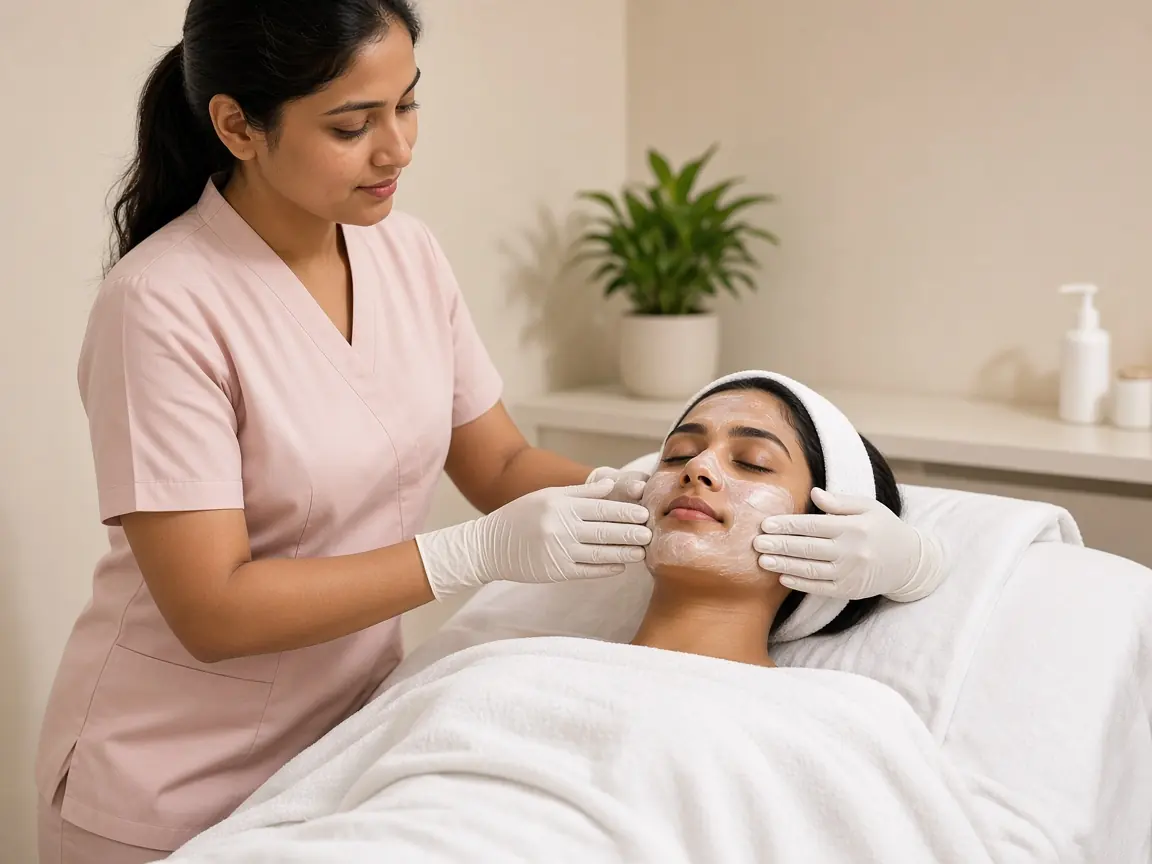
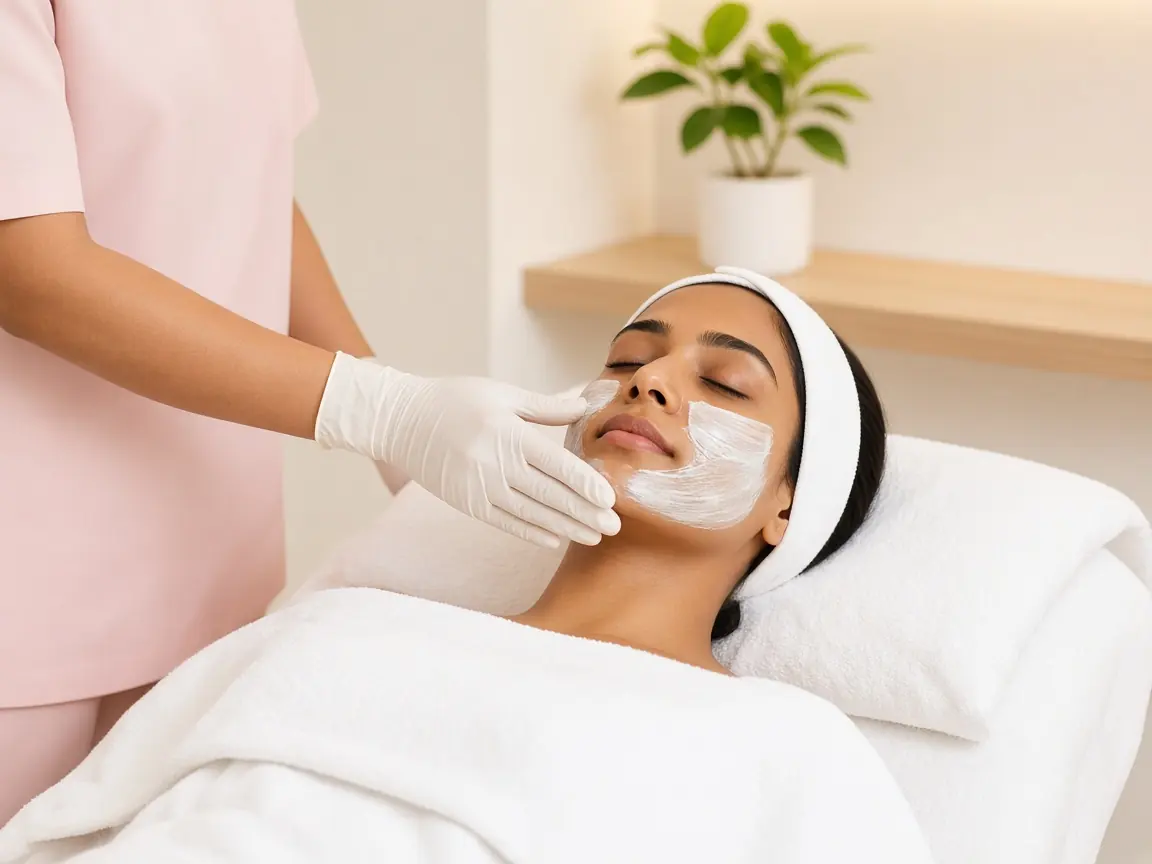
Fix narrow-screen overflow and replace the service photos that had extra hands.

diff --git a/css/site.css b/css/site.css
@@ -1,1 +1,1 @@
-*,:after,:before{--tw-border-spacing-x:0;--tw-border-spacing-y:0;--tw-translate-x:0;--tw-translate-y:0;--tw-rotate:0;--tw-skew-x:0;--tw-skew-y:0;--tw-scale-x:1;--tw-scale-y:1;--tw-pan-x: ;--tw-pan-y: ;--tw-pinch-zoom: ;--tw-scroll-snap-strictness:proximity;--tw-gradient-from-position: ;--tw-gradient-via-position: ;--tw-gradient-to-position: ;--tw-ordinal: ;--tw-slashed-zero: ;--tw-numeric-figure: ;--tw-numeric-spacing: ;--tw-numeric-fraction: ;--tw-ring-inset: ;--tw-ring-offset-width:0px;--tw-ring-offset-color:#fff;--tw-ring-color:rgba(59,130,246,.5);--tw-ring-offset-shadow:0 0 #0000;--tw-ring-shadow:0 0 #0000;--tw-shadow:0 0 #0000;--tw-shadow-colored:0 0 #0000;--tw-blur: ;--tw-brightness: ;--tw-contrast: ;--tw-grayscale: ;--tw-hue-rotate: ;--tw-invert: ;--tw-saturate: ;--tw-sepia: ;--tw-drop-shadow: ;--tw-backdrop-blur: ;--tw-backdrop-brightness: ;--tw-backdrop-contrast: ;--tw-backdrop-grayscale: ;--tw-backdrop-hue-rotate: ;--tw-backdrop-invert: ;--tw-backdrop-opacity: ;--tw-backdrop-saturate: ;--tw-backdrop-sepia: ;--tw-contain-size: ;--tw-contain-layout: ;--tw-contain-paint: ;--tw-contain-style: }::backdrop{--tw-border-spacing-x:0;--tw-border-spacing-y:0;--tw-translate-x:0;--tw-translate-y:0;--tw-rotate:0;--tw-skew-x:0;--tw-skew-y:0;--tw-scale-x:1;--tw-scale-y:1;--tw-pan-x: ;--tw-pan-y: ;--tw-pinch-zoom: ;--tw-scroll-snap-strictness:proximity;--tw-gradient-from-position: ;--tw-gradient-via-position: ;--tw-gradient-to-position: ;--tw-ordinal: ;--tw-slashed-zero: ;--tw-numeric-figure: ;--tw-numeric-spacing: ;--tw-numeric-fraction: ;--tw-ring-inset: ;--tw-ring-offset-width:0px;--tw-ring-offset-color:#fff;--tw-ring-color:rgba(59,130,246,.5);--tw-ring-offset-shadow:0 0 #0000;--tw-ring-shadow:0 0 #0000;--tw-shadow:0 0 #0000;--tw-shadow-colored:0 0 #0000;--tw-blur: ;--tw-brightness: ;--tw-contrast: ;--tw-grayscale: ;--tw-hue-rotate: ;--tw-invert: ;--tw-saturate: ;--tw-sepia: ;--tw-drop-shadow: ;--tw-backdrop-blur: ;--tw-backdrop-brightness: ;--tw-backdrop-contrast: ;--tw-backdrop-grayscale: ;--tw-backdrop-hue-rotate: ;--tw-backdrop-invert: ;--tw-backdrop-opacity: ;--tw-backdrop-saturate: ;--tw-backdrop-sepia: ;--tw-contain-size: ;--tw-contain-layout: ;--tw-contain-paint: ;--tw-contain-style: }/*! tailwindcss v3.4.17 | MIT License | https://tailwindcss.com*/*,:after,:before{box-sizing:border-box;border:0 solid #e5e7eb}:after,:before{--tw-content:""}:host,html{line-height:1.5;-webkit-text-size-adjust:100%;-moz-tab-size:4;-o-tab-size:4;tab-size:4;font-family:ui-sans-serif,system-ui,sans-serif,Apple Color Emoji,Segoe UI Emoji,Segoe UI Symbol,Noto Color Emoji;font-feature-settings:normal;font-variation-settings:normal;-webkit-tap-highlight-color:transparent}body{margin:0;line-height:inherit}hr{height:0;color:inherit;border-top-width:1px}abbr:where([title]){-webkit-text-decoration:underline dotted;text-decoration:underline dotted}h1,h2,h3,h4,h5,h6{font-size:inherit;font-weight:inherit}a{color:inherit;text-decoration:inherit}b,strong{font-weight:bolder}code,kbd,pre,samp{font-family:ui-monospace,SFMono-Regular,Menlo,Monaco,Consolas,Liberation Mono,Courier New,monospace;font-feature-settings:normal;font-variation-settings:normal;font-size:1em}small{font-size:80%}sub,sup{font-size:75%;line-height:0;position:relative;vertical-align:baseline}sub{bottom:-.25em}sup{top:-.5em}table{text-indent:0;border-color:inherit;border-collapse:collapse}button,input,optgroup,select,textarea{font-family:inherit;font-feature-settings:inherit;font-variation-settings:inherit;font-size:100%;font-weight:inherit;line-height:inherit;letter-spacing:inherit;color:inherit;margin:0;padding:0}button,select{text-transform:none}button,input:where([type=button]),input:where([type=reset]),input:where([type=submit]){-webkit-appearance:button;background-color:transparent;background-image:none}:-moz-focusring{outline:auto}:-moz-ui-invalid{box-shadow:none}progress{vertical-align:baseline}::-webkit-inner-spin-button,::-webkit-outer-spin-button{height:auto}[type=search]{-webkit-appearance:textfield;outline-offset:-2px}::-webkit-search-decoration{-webkit-appearance:none}::-webkit-file-upload-button{-webkit-appearance:button;font:inherit}summary{display:list-item}blockquote,dd,dl,figure,h1,h2,h3,h4,h5,h6,hr,p,pre{margin:0}fieldset{margin:0}fieldset,legend{padding:0}menu,ol,ul{list-style:none;margin:0;padding:0}dialog{padding:0}textarea{resize:vertical}input::-moz-placeholder,textarea::-moz-placeholder{opacity:1;color:#9ca3af}input::placeholder,textarea::placeholder{opacity:1;color:#9ca3af}[role=button],button{cursor:pointer}:disabled{cursor:default}audio,canvas,embed,iframe,img,object,svg,video{display:block;vertical-align:middle}img,video{max-width:100%;height:auto}[hidden]:where(:not([hidden=until-found])){display:none}.absolute{position:absolute}.relative{position:relative}.sticky{position:sticky}.right-0{right:0}.top-0{top:0}.top-full{top:100%}.z-50{z-index:50}.mx-auto{margin-left:auto;margin-right:auto}.mb-10{margin-bottom:2.5rem}.mb-12{margin-bottom:3rem}.mb-16{margin-bottom:4rem}.mb-2{margin-bottom:.5rem}.mb-3{margin-bottom:.75rem}.mb-4{margin-bottom:1rem}.mb-6{margin-bottom:1.5rem}.mb-8{margin-bottom:2rem}.ml-2{margin-left:.5rem}.mr-2{margin-right:.5rem}.mt-10{margin-top:2.5rem}.mt-12{margin-top:3rem}.mt-2{margin-top:.5rem}.mt-3{margin-top:.75rem}.mt-4{margin-top:1rem}.mt-6{margin-top:1.5rem}.mt-8{margin-top:2rem}.mt-auto{margin-top:auto}.block{display:block}.inline-block{display:inline-block}.flex{display:flex}.inline-flex{display:inline-flex}.grid{display:grid}.hidden{display:none}.h-10{height:2.5rem}.h-12{height:3rem}.h-16{height:4rem}.h-4{height:1rem}.h-48{height:12rem}.h-5{height:1.25rem}.h-6{height:1.5rem}.h-8{height:2rem}.h-80{height:20rem}.h-\[450px\]{height:450px}.h-full{height:100%}.min-h-screen{min-height:100vh}.w-10{width:2.5rem}.w-12{width:3rem}.w-16{width:4rem}.w-4{width:1rem}.w-5{width:1.25rem}.w-6{width:1.5rem}.w-64{width:16rem}.w-8{width:2rem}.w-\[85\%\]{width:85%}.w-full{width:100%}.min-w-0{min-width:0}.max-w-3xl{max-width:48rem}.max-w-5xl{max-width:64rem}.max-w-7xl{max-width:80rem}.max-w-md{max-width:28rem}.max-w-xl{max-width:36rem}.shrink-0{flex-shrink:0}.flex-grow{flex-grow:1}.snap-x{scroll-snap-type:x var(--tw-scroll-snap-strictness)}.snap-mandatory{--tw-scroll-snap-strictness:mandatory}.snap-start{scroll-snap-align:start}.grid-cols-1{grid-template-columns:repeat(1,minmax(0,1fr))}.grid-cols-2{grid-template-columns:repeat(2,minmax(0,1fr))}.grid-cols-3{grid-template-columns:repeat(3,minmax(0,1fr))}.flex-col{flex-direction:column}.flex-wrap{flex-wrap:wrap}.items-start{align-items:flex-start}.items-center{align-items:center}.justify-center{justify-content:center}.justify-between{justify-content:space-between}.gap-10{gap:2.5rem}.gap-12{gap:3rem}.gap-2{gap:.5rem}.gap-3{gap:.75rem}.gap-4{gap:1rem}.gap-6{gap:1.5rem}.gap-8{gap:2rem}.space-y-1>:not([hidden])~:not([hidden]){--tw-space-y-reverse:0;margin-top:calc(.25rem*(1 - var(--tw-space-y-reverse)));margin-bottom:calc(.25rem*var(--tw-space-y-reverse))}.space-y-2>:not([hidden])~:not([hidden]){--tw-space-y-reverse:0;margin-top:calc(.5rem*(1 - var(--tw-space-y-reverse)));margin-bottom:calc(.5rem*var(--tw-space-y-reverse))}.space-y-3>:not([hidden])~:not([hidden]){--tw-space-y-reverse:0;margin-top:calc(.75rem*(1 - var(--tw-space-y-reverse)));margin-bottom:calc(.75rem*var(--tw-space-y-reverse))}.space-y-4>:not([hidden])~:not([hidden]){--tw-space-y-reverse:0;margin-top:calc(1rem*(1 - var(--tw-space-y-reverse)));margin-bottom:calc(1rem*var(--tw-space-y-reverse))}.space-y-6>:not([hidden])~:not([hidden]){--tw-space-y-reverse:0;margin-top:calc(1.5rem*(1 - var(--tw-space-y-reverse)));margin-bottom:calc(1.5rem*var(--tw-space-y-reverse))}.space-y-8>:not([hidden])~:not([hidden]){--tw-space-y-reverse:0;margin-top:calc(2rem*(1 - var(--tw-space-y-reverse)));margin-bottom:calc(2rem*var(--tw-space-y-reverse))}.overflow-hidden{overflow:hidden}.overflow-x-auto{overflow-x:auto}.whitespace-nowrap{white-space:nowrap}.rounded-2xl{border-radius:1rem}.rounded-full{border-radius:9999px}.rounded-lg{border-radius:.5rem}.rounded-md{border-radius:.375rem}.rounded-xl{border-radius:.75rem}.border{border-width:1px}.border-2{border-width:2px}.border-b-2{border-bottom-width:2px}.border-t{border-top-width:1px}.border-black\/20{border-color:rgba(0,0,0,.2)}.border-blue-100{--tw-border-opacity:1;border-color:rgb(219 234 254/var(--tw-border-opacity,1))}.border-blue-600{--tw-border-opacity:1;border-color:rgb(37 99 235/var(--tw-border-opacity,1))}.border-gray-200{--tw-border-opacity:1;border-color:rgb(229 231 235/var(--tw-border-opacity,1))}.border-gray-800{--tw-border-opacity:1;border-color:rgb(31 41 55/var(--tw-border-opacity,1))}.border-green-100{--tw-border-opacity:1;border-color:rgb(220 252 231/var(--tw-border-opacity,1))}.border-green-600{--tw-border-opacity:1;border-color:rgb(22 163 74/var(--tw-border-opacity,1))}.border-pink-100{--tw-border-opacity:1;border-color:rgb(252 231 243/var(--tw-border-opacity,1))}.border-pink-600{--tw-border-opacity:1;border-color:rgb(219 39 119/var(--tw-border-opacity,1))}.bg-blue-50{--tw-bg-opacity:1;background-color:rgb(239 246 255/var(--tw-bg-opacity,1))}.bg-blue-600{--tw-bg-opacity:1;background-color:rgb(37 99 235/var(--tw-bg-opacity,1))}.bg-gray-100{--tw-bg-opacity:1;background-color:rgb(243 244 246/var(--tw-bg-opacity,1))}.bg-gray-50{--tw-bg-opacity:1;background-color:rgb(249 250 251/var(--tw-bg-opacity,1))}.bg-gray-800{--tw-bg-opacity:1;background-color:rgb(31 41 55/var(--tw-bg-opacity,1))}.bg-gray-900{--tw-bg-opacity:1;background-color:rgb(17 24 39/var(--tw-bg-opacity,1))}.bg-green-100{--tw-bg-opacity:1;background-color:rgb(220 252 231/var(--tw-bg-opacity,1))}.bg-green-50{--tw-bg-opacity:1;background-color:rgb(240 253 244/var(--tw-bg-opacity,1))}.bg-green-600{--tw-bg-opacity:1;background-color:rgb(22 163 74/var(--tw-bg-opacity,1))}.bg-green-700{--tw-bg-opacity:1;background-color:rgb(21 128 61/var(--tw-bg-opacity,1))}.bg-pink-50{--tw-bg-opacity:1;background-color:rgb(253 242 248/var(--tw-bg-opacity,1))}.bg-pink-600{--tw-bg-opacity:1;background-color:rgb(219 39 119/var(--tw-bg-opacity,1))}.bg-white{--tw-bg-opacity:1;background-color:rgb(255 255 255/var(--tw-bg-opacity,1))}.bg-gradient-to-br{background-image:linear-gradient(to bottom right,var(--tw-gradient-stops))}.from-blue-50{--tw-gradient-from:#eff6ff var(--tw-gradient-from-position);--tw-gradient-to:rgba(239,246,255,0) var(--tw-gradient-to-position);--tw-gradient-stops:var(--tw-gradient-from),var(--tw-gradient-to)}.from-green-50{--tw-gradient-from:#f0fdf4 var(--tw-gradient-from-position);--tw-gradient-to:rgba(240,253,244,0) var(--tw-gradient-to-position);--tw-gradient-stops:var(--tw-gradient-from),var(--tw-gradient-to)}.from-pink-50{--tw-gradient-from:#fdf2f8 var(--tw-gradient-from-position);--tw-gradient-to:rgba(253,242,248,0) var(--tw-gradient-to-position);--tw-gradient-stops:var(--tw-gradient-from),var(--tw-gradient-to)}.to-blue-100{--tw-gradient-to:#dbeafe var(--tw-gradient-to-position)}.to-green-100{--tw-gradient-to:#dcfce7 var(--tw-gradient-to-position)}.to-pink-100{--tw-gradient-to:#fce7f3 var(--tw-gradient-to-position)}.p-1{padding:.25rem}.p-2{padding:.5rem}.p-4{padding:1rem}.p-6{padding:1.5rem}.p-8{padding:2rem}.px-2{padding-left:.5rem;padding-right:.5rem}.px-3{padding-left:.75rem;padding-right:.75rem}.px-4{padding-left:1rem;padding-right:1rem}.px-6{padding-left:1.5rem;padding-right:1.5rem}.px-8{padding-left:2rem;padding-right:2rem}.py-1{padding-top:.25rem;padding-bottom:.25rem}.py-12{padding-top:3rem;padding-bottom:3rem}.py-16{padding-top:4rem;padding-bottom:4rem}.py-2{padding-top:.5rem;padding-bottom:.5rem}.py-24{padding-top:6rem;padding-bottom:6rem}.py-3{padding-top:.75rem;padding-bottom:.75rem}.py-4{padding-top:1rem;padding-bottom:1rem}.py-8{padding-top:2rem;padding-bottom:2rem}.pb-16{padding-bottom:4rem}.pt-4{padding-top:1rem}.pt-8{padding-top:2rem}.text-left{text-align:left}.text-center{text-align:center}.text-2xl{font-size:1.5rem;line-height:2rem}.text-3xl{font-size:1.875rem;line-height:2.25rem}.text-4xl{font-size:2.25rem;line-height:2.5rem}.text-base{font-size:1rem;line-height:1.5rem}.text-lg{font-size:1.125rem;line-height:1.75rem}.text-sm{font-size:.875rem;line-height:1.25rem}.text-xl{font-size:1.25rem;line-height:1.75rem}.text-xs{font-size:.75rem;line-height:1rem}.font-bold{font-weight:700}.font-medium{font-weight:500}.font-semibold{font-weight:600}.uppercase{text-transform:uppercase}.italic{font-style:italic}.not-italic{font-style:normal}.leading-relaxed{line-height:1.625}.leading-tight{line-height:1.25}.tracking-wide{letter-spacing:.025em}.text-blue-600{--tw-text-opacity:1;color:rgb(37 99 235/var(--tw-text-opacity,1))}.text-blue-700{--tw-text-opacity:1;color:rgb(29 78 216/var(--tw-text-opacity,1))}.text-gray-300{--tw-text-opacity:1;color:rgb(209 213 219/var(--tw-text-opacity,1))}.text-gray-400{--tw-text-opacity:1;color:rgb(156 163 175/var(--tw-text-opacity,1))}.text-gray-500{--tw-text-opacity:1;color:rgb(107 114 128/var(--tw-text-opacity,1))}.text-gray-600{--tw-text-opacity:1;color:rgb(75 85 99/var(--tw-text-opacity,1))}.text-gray-700{--tw-text-opacity:1;color:rgb(55 65 81/var(--tw-text-opacity,1))}.text-gray-800{--tw-text-opacity:1;color:rgb(31 41 55/var(--tw-text-opacity,1))}.text-gray-900{--tw-text-opacity:1;color:rgb(17 24 39/var(--tw-text-opacity,1))}.text-green-50{--tw-text-opacity:1;color:rgb(240 253 244/var(--tw-text-opacity,1))}.text-green-600{--tw-text-opacity:1;color:rgb(22 163 74/var(--tw-text-opacity,1))}.text-green-700{--tw-text-opacity:1;color:rgb(21 128 61/var(--tw-text-opacity,1))}.text-green-800{--tw-text-opacity:1;color:rgb(22 101 52/var(--tw-text-opacity,1))}.text-pink-600{--tw-text-opacity:1;color:rgb(219 39 119/var(--tw-text-opacity,1))}.text-pink-700{--tw-text-opacity:1;color:rgb(190 24 93/var(--tw-text-opacity,1))}.text-white{--tw-text-opacity:1;color:rgb(255 255 255/var(--tw-text-opacity,1))}.underline{text-decoration-line:underline}.opacity-90{opacity:.9}.shadow{--tw-shadow:0 1px 3px 0 rgba(0,0,0,.1),0 1px 2px -1px rgba(0,0,0,.1);--tw-shadow-colored:0 1px 3px 0 var(--tw-shadow-color),0 1px 2px -1px var(--tw-shadow-color)}.shadow,.shadow-2xl{box-shadow:var(--tw-ring-offset-shadow,0 0 #0000),var(--tw-ring-shadow,0 0 #0000),var(--tw-shadow)}.shadow-2xl{--tw-shadow:0 25px 50px -12px rgba(0,0,0,.25);--tw-shadow-colored:0 25px 50px -12px var(--tw-shadow-color)}.shadow-lg{--tw-shadow:0 10px 15px -3px rgba(0,0,0,.1),0 4px 6px -4px rgba(0,0,0,.1);--tw-shadow-colored:0 10px 15px -3px var(--tw-shadow-color),0 4px 6px -4px var(--tw-shadow-color)}.shadow-lg,.shadow-xl{box-shadow:var(--tw-ring-offset-shadow,0 0 #0000),var(--tw-ring-shadow,0 0 #0000),var(--tw-shadow)}.shadow-xl{--tw-shadow:0 20px 25px -5px rgba(0,0,0,.1),0 8px 10px -6px rgba(0,0,0,.1);--tw-shadow-colored:0 20px 25px -5px var(--tw-shadow-color),0 8px 10px -6px var(--tw-shadow-color)}.transition-colors{transition-property:color,background-color,border-color,text-decoration-color,fill,stroke;transition-timing-function:cubic-bezier(.4,0,.2,1);transition-duration:.15s}.transition-shadow{transition-property:box-shadow;transition-timing-function:cubic-bezier(.4,0,.2,1);transition-duration:.15s}:root{color-scheme:light}html{scroll-behavior:smooth}body{font-family:ui-sans-serif,system-ui,-apple-system,Segoe UI,Roboto,Helvetica,Arial,sans-serif}.service-scroller{scrollbar-width:none}.service-scroller::-webkit-scrollbar{display:none}.line-clamp-2{display:-webkit-box;-webkit-line-clamp:2;-webkit-box-orient:vertical;overflow:hidden}.logo-img{max-height:8rem;width:auto;-o-object-fit:contain;object-fit:contain}.logo-img.logo-tall{max-height:11rem}.service-photo{display:block;width:100%;height:auto;aspect-ratio:4/3;-o-object-fit:cover;object-fit:cover}.hover\:bg-blue-700:hover{--tw-bg-opacity:1;background-color:rgb(29 78 216/var(--tw-bg-opacity,1))}.hover\:bg-gray-50:hover{--tw-bg-opacity:1;background-color:rgb(249 250 251/var(--tw-bg-opacity,1))}.hover\:bg-green-50:hover{--tw-bg-opacity:1;background-color:rgb(240 253 244/var(--tw-bg-opacity,1))}.hover\:bg-green-700:hover{--tw-bg-opacity:1;background-color:rgb(21 128 61/var(--tw-bg-opacity,1))}.hover\:bg-pink-700:hover{--tw-bg-opacity:1;background-color:rgb(190 24 93/var(--tw-bg-opacity,1))}.hover\:text-green-600:hover{--tw-text-opacity:1;color:rgb(22 163 74/var(--tw-text-opacity,1))}.hover\:text-white:hover{--tw-text-opacity:1;color:rgb(255 255 255/var(--tw-text-opacity,1))}.hover\:shadow-lg:hover{--tw-shadow:0 10px 15px -3px rgba(0,0,0,.1),0 4px 6px -4px rgba(0,0,0,.1);--tw-shadow-colored:0 10px 15px -3px var(--tw-shadow-color),0 4px 6px -4px var(--tw-shadow-color)}.hover\:shadow-lg:hover,.hover\:shadow-xl:hover{box-shadow:var(--tw-ring-offset-shadow,0 0 #0000),var(--tw-ring-shadow,0 0 #0000),var(--tw-shadow)}.hover\:shadow-xl:hover{--tw-shadow:0 20px 25px -5px rgba(0,0,0,.1),0 8px 10px -6px rgba(0,0,0,.1);--tw-shadow-colored:0 20px 25px -5px var(--tw-shadow-color),0 8px 10px -6px var(--tw-shadow-color)}@media (min-width:640px){.sm\:inline{display:inline}.sm\:w-\[70\%\]{width:70%}.sm\:flex-row{flex-direction:row}.sm\:gap-3{gap:.75rem}.sm\:px-6{padding-left:1.5rem;padding-right:1.5rem}.sm\:text-sm{font-size:.875rem;line-height:1.25rem}.sm\:text-xl{font-size:1.25rem;line-height:1.75rem}}@media (min-width:768px){.md\:grid{display:grid}.md\:w-auto{width:auto}.md\:grid-cols-2{grid-template-columns:repeat(2,minmax(0,1fr))}.md\:grid-cols-3{grid-template-columns:repeat(3,minmax(0,1fr))}.md\:grid-cols-4{grid-template-columns:repeat(4,minmax(0,1fr))}.md\:flex-row{flex-direction:row}.md\:overflow-visible{overflow:visible}}@media (min-width:1024px){.lg\:flex{display:flex}.lg\:hidden{display:none}.lg\:grid-cols-2{grid-template-columns:repeat(2,minmax(0,1fr))}.lg\:grid-cols-3{grid-template-columns:repeat(3,minmax(0,1fr))}.lg\:grid-cols-4{grid-template-columns:repeat(4,minmax(0,1fr))}.lg\:px-8{padding-left:2rem;padding-right:2rem}.lg\:py-24{padding-top:6rem;padding-bottom:6rem}.lg\:py-28{padding-top:7rem;padding-bottom:7rem}.lg\:text-4xl{font-size:2.25rem;line-height:2.5rem}.lg\:text-5xl{font-size:3rem;line-height:1}.lg\:text-6xl{font-size:3.75rem;line-height:1}}
+*,:after,:before{--tw-border-spacing-x:0;--tw-border-spacing-y:0;--tw-translate-x:0;--tw-translate-y:0;--tw-rotate:0;--tw-skew-x:0;--tw-skew-y:0;--tw-scale-x:1;--tw-scale-y:1;--tw-pan-x: ;--tw-pan-y: ;--tw-pinch-zoom: ;--tw-scroll-snap-strictness:proximity;--tw-gradient-from-position: ;--tw-gradient-via-position: ;--tw-gradient-to-position: ;--tw-ordinal: ;--tw-slashed-zero: ;--tw-numeric-figure: ;--tw-numeric-spacing: ;--tw-numeric-fraction: ;--tw-ring-inset: ;--tw-ring-offset-width:0px;--tw-ring-offset-color:#fff;--tw-ring-color:rgba(59,130,246,.5);--tw-ring-offset-shadow:0 0 #0000;--tw-ring-shadow:0 0 #0000;--tw-shadow:0 0 #0000;--tw-shadow-colored:0 0 #0000;--tw-blur: ;--tw-brightness: ;--tw-contrast: ;--tw-grayscale: ;--tw-hue-rotate: ;--tw-invert: ;--tw-saturate: ;--tw-sepia: ;--tw-drop-shadow: ;--tw-backdrop-blur: ;--tw-backdrop-brightness: ;--tw-backdrop-contrast: ;--tw-backdrop-grayscale: ;--tw-backdrop-hue-rotate: ;--tw-backdrop-invert: ;--tw-backdrop-opacity: ;--tw-backdrop-saturate: ;--tw-backdrop-sepia: ;--tw-contain-size: ;--tw-contain-layout: ;--tw-contain-paint: ;--tw-contain-style: }::backdrop{--tw-border-spacing-x:0;--tw-border-spacing-y:0;--tw-translate-x:0;--tw-translate-y:0;--tw-rotate:0;--tw-skew-x:0;--tw-skew-y:0;--tw-scale-x:1;--tw-scale-y:1;--tw-pan-x: ;--tw-pan-y: ;--tw-pinch-zoom: ;--tw-scroll-snap-strictness:proximity;--tw-gradient-from-position: ;--tw-gradient-via-position: ;--tw-gradient-to-position: ;--tw-ordinal: ;--tw-slashed-zero: ;--tw-numeric-figure: ;--tw-numeric-spacing: ;--tw-numeric-fraction: ;--tw-ring-inset: ;--tw-ring-offset-width:0px;--tw-ring-offset-color:#fff;--tw-ring-color:rgba(59,130,246,.5);--tw-ring-offset-shadow:0 0 #0000;--tw-ring-shadow:0 0 #0000;--tw-shadow:0 0 #0000;--tw-shadow-colored:0 0 #0000;--tw-blur: ;--tw-brightness: ;--tw-contrast: ;--tw-grayscale: ;--tw-hue-rotate: ;--tw-invert: ;--tw-saturate: ;--tw-sepia: ;--tw-drop-shadow: ;--tw-backdrop-blur: ;--tw-backdrop-brightness: ;--tw-backdrop-contrast: ;--tw-backdrop-grayscale: ;--tw-backdrop-hue-rotate: ;--tw-backdrop-invert: ;--tw-backdrop-opacity: ;--tw-backdrop-saturate: ;--tw-backdrop-sepia: ;--tw-contain-size: ;--tw-contain-layout: ;--tw-contain-paint: ;--tw-contain-style: }/*! tailwindcss v3.4.17 | MIT License | https://tailwindcss.com*/*,:after,:before{box-sizing:border-box;border:0 solid #e5e7eb}:after,:before{--tw-content:""}:host,html{line-height:1.5;-webkit-text-size-adjust:100%;-moz-tab-size:4;-o-tab-size:4;tab-size:4;font-family:ui-sans-serif,system-ui,sans-serif,Apple Color Emoji,Segoe UI Emoji,Segoe UI Symbol,Noto Color Emoji;font-feature-settings:normal;font-variation-settings:normal;-webkit-tap-highlight-color:transparent}body{margin:0;line-height:inherit}hr{height:0;color:inherit;border-top-width:1px}abbr:where([title]){-webkit-text-decoration:underline dotted;text-decoration:underline dotted}h1,h2,h3,h4,h5,h6{font-size:inherit;font-weight:inherit}a{color:inherit;text-decoration:inherit}b,strong{font-weight:bolder}code,kbd,pre,samp{font-family:ui-monospace,SFMono-Regular,Menlo,Monaco,Consolas,Liberation Mono,Courier New,monospace;font-feature-settings:normal;font-variation-settings:normal;font-size:1em}small{font-size:80%}sub,sup{font-size:75%;line-height:0;position:relative;vertical-align:baseline}sub{bottom:-.25em}sup{top:-.5em}table{text-indent:0;border-color:inherit;border-collapse:collapse}button,input,optgroup,select,textarea{font-family:inherit;font-feature-settings:inherit;font-variation-settings:inherit;font-size:100%;font-weight:inherit;line-height:inherit;letter-spacing:inherit;color:inherit;margin:0;padding:0}button,select{text-transform:none}button,input:where([type=button]),input:where([type=reset]),input:where([type=submit]){-webkit-appearance:button;background-color:transparent;background-image:none}:-moz-focusring{outline:auto}:-moz-ui-invalid{box-shadow:none}progress{vertical-align:baseline}::-webkit-inner-spin-button,::-webkit-outer-spin-button{height:auto}[type=search]{-webkit-appearance:textfield;outline-offset:-2px}::-webkit-search-decoration{-webkit-appearance:none}::-webkit-file-upload-button{-webkit-appearance:button;font:inherit}summary{display:list-item}blockquote,dd,dl,figure,h1,h2,h3,h4,h5,h6,hr,p,pre{margin:0}fieldset{margin:0}fieldset,legend{padding:0}menu,ol,ul{list-style:none;margin:0;padding:0}dialog{padding:0}textarea{resize:vertical}input::-moz-placeholder,textarea::-moz-placeholder{opacity:1;color:#9ca3af}input::placeholder,textarea::placeholder{opacity:1;color:#9ca3af}[role=button],button{cursor:pointer}:disabled{cursor:default}audio,canvas,embed,iframe,img,object,svg,video{display:block;vertical-align:middle}img,video{max-width:100%;height:auto}[hidden]:where(:not([hidden=until-found])){display:none}.absolute{position:absolute}.relative{position:relative}.sticky{position:sticky}.right-0{right:0}.top-0{top:0}.top-full{top:100%}.z-50{z-index:50}.mx-auto{margin-left:auto;margin-right:auto}.mb-10{margin-bottom:2.5rem}.mb-12{margin-bottom:3rem}.mb-16{margin-bottom:4rem}.mb-2{margin-bottom:.5rem}.mb-3{margin-bottom:.75rem}.mb-4{margin-bottom:1rem}.mb-6{margin-bottom:1.5rem}.mb-8{margin-bottom:2rem}.ml-2{margin-left:.5rem}.mr-2{margin-right:.5rem}.mt-10{margin-top:2.5rem}.mt-12{margin-top:3rem}.mt-2{margin-top:.5rem}.mt-3{margin-top:.75rem}.mt-4{margin-top:1rem}.mt-6{margin-top:1.5rem}.mt-8{margin-top:2rem}.mt-auto{margin-top:auto}.block{display:block}.inline-block{display:inline-block}.flex{display:flex}.inline-flex{display:inline-flex}.grid{display:grid}.hidden{display:none}.h-10{height:2.5rem}.h-12{height:3rem}.h-16{height:4rem}.h-4{height:1rem}.h-48{height:12rem}.h-5{height:1.25rem}.h-6{height:1.5rem}.h-8{height:2rem}.h-80{height:20rem}.h-\[450px\]{height:450px}.h-full{height:100%}.min-h-screen{min-height:100vh}.w-10{width:2.5rem}.w-12{width:3rem}.w-16{width:4rem}.w-4{width:1rem}.w-5{width:1.25rem}.w-6{width:1.5rem}.w-64{width:16rem}.w-8{width:2rem}.w-\[85\%\]{width:85%}.w-full{width:100%}.min-w-0{min-width:0}.max-w-3xl{max-width:48rem}.max-w-5xl{max-width:64rem}.max-w-7xl{max-width:80rem}.max-w-md{max-width:28rem}.max-w-xl{max-width:36rem}.shrink-0{flex-shrink:0}.flex-grow{flex-grow:1}.snap-x{scroll-snap-type:x var(--tw-scroll-snap-strictness)}.snap-mandatory{--tw-scroll-snap-strictness:mandatory}.snap-start{scroll-snap-align:start}.grid-cols-1{grid-template-columns:repeat(1,minmax(0,1fr))}.grid-cols-2{grid-template-columns:repeat(2,minmax(0,1fr))}.grid-cols-3{grid-template-columns:repeat(3,minmax(0,1fr))}.flex-col{flex-direction:column}.flex-wrap{flex-wrap:wrap}.items-start{align-items:flex-start}.items-center{align-items:center}.justify-center{justify-content:center}.justify-between{justify-content:space-between}.gap-10{gap:2.5rem}.gap-12{gap:3rem}.gap-2{gap:.5rem}.gap-3{gap:.75rem}.gap-4{gap:1rem}.gap-6{gap:1.5rem}.gap-8{gap:2rem}.space-y-1>:not([hidden])~:not([hidden]){--tw-space-y-reverse:0;margin-top:calc(.25rem*(1 - var(--tw-space-y-reverse)));margin-bottom:calc(.25rem*var(--tw-space-y-reverse))}.space-y-2>:not([hidden])~:not([hidden]){--tw-space-y-reverse:0;margin-top:calc(.5rem*(1 - var(--tw-space-y-reverse)));margin-bottom:calc(.5rem*var(--tw-space-y-reverse))}.space-y-3>:not([hidden])~:not([hidden]){--tw-space-y-reverse:0;margin-top:calc(.75rem*(1 - var(--tw-space-y-reverse)));margin-bottom:calc(.75rem*var(--tw-space-y-reverse))}.space-y-4>:not([hidden])~:not([hidden]){--tw-space-y-reverse:0;margin-top:calc(1rem*(1 - var(--tw-space-y-reverse)));margin-bottom:calc(1rem*var(--tw-space-y-reverse))}.space-y-6>:not([hidden])~:not([hidden]){--tw-space-y-reverse:0;margin-top:calc(1.5rem*(1 - var(--tw-space-y-reverse)));margin-bottom:calc(1.5rem*var(--tw-space-y-reverse))}.space-y-8>:not([hidden])~:not([hidden]){--tw-space-y-reverse:0;margin-top:calc(2rem*(1 - var(--tw-space-y-reverse)));margin-bottom:calc(2rem*var(--tw-space-y-reverse))}.overflow-hidden{overflow:hidden}.overflow-x-auto{overflow-x:auto}.whitespace-nowrap{white-space:nowrap}.rounded-2xl{border-radius:1rem}.rounded-full{border-radius:9999px}.rounded-lg{border-radius:.5rem}.rounded-md{border-radius:.375rem}.rounded-xl{border-radius:.75rem}.border{border-width:1px}.border-2{border-width:2px}.border-b-2{border-bottom-width:2px}.border-t{border-top-width:1px}.border-black\/20{border-color:rgba(0,0,0,.2)}.border-blue-100{--tw-border-opacity:1;border-color:rgb(219 234 254/var(--tw-border-opacity,1))}.border-blue-600{--tw-border-opacity:1;border-color:rgb(37 99 235/var(--tw-border-opacity,1))}.border-gray-200{--tw-border-opacity:1;border-color:rgb(229 231 235/var(--tw-border-opacity,1))}.border-gray-800{--tw-border-opacity:1;border-color:rgb(31 41 55/var(--tw-border-opacity,1))}.border-green-100{--tw-border-opacity:1;border-color:rgb(220 252 231/var(--tw-border-opacity,1))}.border-green-600{--tw-border-opacity:1;border-color:rgb(22 163 74/var(--tw-border-opacity,1))}.border-pink-100{--tw-border-opacity:1;border-color:rgb(252 231 243/var(--tw-border-opacity,1))}.border-pink-600{--tw-border-opacity:1;border-color:rgb(219 39 119/var(--tw-border-opacity,1))}.bg-blue-50{--tw-bg-opacity:1;background-color:rgb(239 246 255/var(--tw-bg-opacity,1))}.bg-blue-600{--tw-bg-opacity:1;background-color:rgb(37 99 235/var(--tw-bg-opacity,1))}.bg-gray-100{--tw-bg-opacity:1;background-color:rgb(243 244 246/var(--tw-bg-opacity,1))}.bg-gray-50{--tw-bg-opacity:1;background-color:rgb(249 250 251/var(--tw-bg-opacity,1))}.bg-gray-800{--tw-bg-opacity:1;background-color:rgb(31 41 55/var(--tw-bg-opacity,1))}.bg-gray-900{--tw-bg-opacity:1;background-color:rgb(17 24 39/var(--tw-bg-opacity,1))}.bg-green-100{--tw-bg-opacity:1;background-color:rgb(220 252 231/var(--tw-bg-opacity,1))}.bg-green-50{--tw-bg-opacity:1;background-color:rgb(240 253 244/var(--tw-bg-opacity,1))}.bg-green-600{--tw-bg-opacity:1;background-color:rgb(22 163 74/var(--tw-bg-opacity,1))}.bg-green-700{--tw-bg-opacity:1;background-color:rgb(21 128 61/var(--tw-bg-opacity,1))}.bg-pink-50{--tw-bg-opacity:1;background-color:rgb(253 242 248/var(--tw-bg-opacity,1))}.bg-pink-600{--tw-bg-opacity:1;background-color:rgb(219 39 119/var(--tw-bg-opacity,1))}.bg-white{--tw-bg-opacity:1;background-color:rgb(255 255 255/var(--tw-bg-opacity,1))}.bg-gradient-to-br{background-image:linear-gradient(to bottom right,var(--tw-gradient-stops))}.from-blue-50{--tw-gradient-from:#eff6ff var(--tw-gradient-from-position);--tw-gradient-to:rgba(239,246,255,0) var(--tw-gradient-to-position);--tw-gradient-stops:var(--tw-gradient-from),var(--tw-gradient-to)}.from-green-50{--tw-gradient-from:#f0fdf4 var(--tw-gradient-from-position);--tw-gradient-to:rgba(240,253,244,0) var(--tw-gradient-to-position);--tw-gradient-stops:var(--tw-gradient-from),var(--tw-gradient-to)}.from-pink-50{--tw-gradient-from:#fdf2f8 var(--tw-gradient-from-position);--tw-gradient-to:rgba(253,242,248,0) var(--tw-gradient-to-position);--tw-gradient-stops:var(--tw-gradient-from),var(--tw-gradient-to)}.to-blue-100{--tw-gradient-to:#dbeafe var(--tw-gradient-to-position)}.to-green-100{--tw-gradient-to:#dcfce7 var(--tw-gradient-to-position)}.to-pink-100{--tw-gradient-to:#fce7f3 var(--tw-gradient-to-position)}.p-1{padding:.25rem}.p-2{padding:.5rem}.p-4{padding:1rem}.p-6{padding:1.5rem}.p-8{padding:2rem}.px-2{padding-left:.5rem;padding-right:.5rem}.px-3{padding-left:.75rem;padding-right:.75rem}.px-4{padding-left:1rem;padding-right:1rem}.px-6{padding-left:1.5rem;padding-right:1.5rem}.px-8{padding-left:2rem;padding-right:2rem}.py-1{padding-top:.25rem;padding-bottom:.25rem}.py-12{padding-top:3rem;padding-bottom:3rem}.py-16{padding-top:4rem;padding-bottom:4rem}.py-2{padding-top:.5rem;padding-bottom:.5rem}.py-24{padding-top:6rem;padding-bottom:6rem}.py-3{padding-top:.75rem;padding-bottom:.75rem}.py-4{padding-top:1rem;padding-bottom:1rem}.py-8{padding-top:2rem;padding-bottom:2rem}.pb-16{padding-bottom:4rem}.pt-4{padding-top:1rem}.pt-8{padding-top:2rem}.text-left{text-align:left}.text-center{text-align:center}.text-2xl{font-size:1.5rem;line-height:2rem}.text-3xl{font-size:1.875rem;line-height:2.25rem}.text-4xl{font-size:2.25rem;line-height:2.5rem}.text-base{font-size:1rem;line-height:1.5rem}.text-lg{font-size:1.125rem;line-height:1.75rem}.text-sm{font-size:.875rem;line-height:1.25rem}.text-xl{font-size:1.25rem;line-height:1.75rem}.text-xs{font-size:.75rem;line-height:1rem}.font-bold{font-weight:700}.font-medium{font-weight:500}.font-semibold{font-weight:600}.uppercase{text-transform:uppercase}.italic{font-style:italic}.not-italic{font-style:normal}.leading-relaxed{line-height:1.625}.leading-tight{line-height:1.25}.tracking-wide{letter-spacing:.025em}.text-blue-600{--tw-text-opacity:1;color:rgb(37 99 235/var(--tw-text-opacity,1))}.text-blue-700{--tw-text-opacity:1;color:rgb(29 78 216/var(--tw-text-opacity,1))}.text-gray-300{--tw-text-opacity:1;color:rgb(209 213 219/var(--tw-text-opacity,1))}.text-gray-400{--tw-text-opacity:1;color:rgb(156 163 175/var(--tw-text-opacity,1))}.text-gray-500{--tw-text-opacity:1;color:rgb(107 114 128/var(--tw-text-opacity,1))}.text-gray-600{--tw-text-opacity:1;color:rgb(75 85 99/var(--tw-text-opacity,1))}.text-gray-700{--tw-text-opacity:1;color:rgb(55 65 81/var(--tw-text-opacity,1))}.text-gray-800{--tw-text-opacity:1;color:rgb(31 41 55/var(--tw-text-opacity,1))}.text-gray-900{--tw-text-opacity:1;color:rgb(17 24 39/var(--tw-text-opacity,1))}.text-green-50{--tw-text-opacity:1;color:rgb(240 253 244/var(--tw-text-opacity,1))}.text-green-600{--tw-text-opacity:1;color:rgb(22 163 74/var(--tw-text-opacity,1))}.text-green-700{--tw-text-opacity:1;color:rgb(21 128 61/var(--tw-text-opacity,1))}.text-green-800{--tw-text-opacity:1;color:rgb(22 101 52/var(--tw-text-opacity,1))}.text-pink-600{--tw-text-opacity:1;color:rgb(219 39 119/var(--tw-text-opacity,1))}.text-pink-700{--tw-text-opacity:1;color:rgb(190 24 93/var(--tw-text-opacity,1))}.text-white{--tw-text-opacity:1;color:rgb(255 255 255/var(--tw-text-opacity,1))}.underline{text-decoration-line:underline}.opacity-90{opacity:.9}.shadow{--tw-shadow:0 1px 3px 0 rgba(0,0,0,.1),0 1px 2px -1px rgba(0,0,0,.1);--tw-shadow-colored:0 1px 3px 0 var(--tw-shadow-color),0 1px 2px -1px var(--tw-shadow-color)}.shadow,.shadow-2xl{box-shadow:var(--tw-ring-offset-shadow,0 0 #0000),var(--tw-ring-shadow,0 0 #0000),var(--tw-shadow)}.shadow-2xl{--tw-shadow:0 25px 50px -12px rgba(0,0,0,.25);--tw-shadow-colored:0 25px 50px -12px var(--tw-shadow-color)}.shadow-lg{--tw-shadow:0 10px 15px -3px rgba(0,0,0,.1),0 4px 6px -4px rgba(0,0,0,.1);--tw-shadow-colored:0 10px 15px -3px var(--tw-shadow-color),0 4px 6px -4px var(--tw-shadow-color)}.shadow-lg,.shadow-xl{box-shadow:var(--tw-ring-offset-shadow,0 0 #0000),var(--tw-ring-shadow,0 0 #0000),var(--tw-shadow)}.shadow-xl{--tw-shadow:0 20px 25px -5px rgba(0,0,0,.1),0 8px 10px -6px rgba(0,0,0,.1);--tw-shadow-colored:0 20px 25px -5px var(--tw-shadow-color),0 8px 10px -6px var(--tw-shadow-color)}.transition-colors{transition-property:color,background-color,border-color,text-decoration-color,fill,stroke;transition-timing-function:cubic-bezier(.4,0,.2,1);transition-duration:.15s}.transition-shadow{transition-property:box-shadow;transition-timing-function:cubic-bezier(.4,0,.2,1);transition-duration:.15s}:root{color-scheme:light}html{scroll-behavior:smooth}body{font-family:ui-sans-serif,system-ui,-apple-system,Segoe UI,Roboto,Helvetica,Arial,sans-serif}.service-scroller{scrollbar-width:none}.service-scroller::-webkit-scrollbar{display:none}.line-clamp-2{display:-webkit-box;-webkit-line-clamp:2;-webkit-box-orient:vertical;overflow:hidden}.logo-img{max-height:8rem;width:auto;-o-object-fit:contain;object-fit:contain}.logo-img.logo-tall{max-height:11rem}.service-photo{display:block;width:100%;height:auto;aspect-ratio:4/3;-o-object-fit:cover;object-fit:cover}.stat-grid{gap:.5rem}.stat-num{font-size:1.5rem;line-height:2rem}.stat-label{font-size:.75rem;line-height:1rem}@media (min-width:640px){.stat-grid{gap:1.5rem}.stat-num{font-size:1.875rem;line-height:2.25rem}.stat-label{font-size:.875rem;line-height:1.25rem}}@media (max-width:380px){[data-book-toggle]{white-space:nowrap;padding-left:.75rem;padding-right:.75rem}[data-book-toggle] .ml-2{position:absolute;width:1px;height:1px;padding:0;margin:-1px;overflow:hidden;clip:rect(0,0,0,0);white-space:nowrap;border:0}}.hover\:bg-blue-700:hover{--tw-bg-opacity:1;background-color:rgb(29 78 216/var(--tw-bg-opacity,1))}.hover\:bg-gray-50:hover{--tw-bg-opacity:1;background-color:rgb(249 250 251/var(--tw-bg-opacity,1))}.hover\:bg-green-50:hover{--tw-bg-opacity:1;background-color:rgb(240 253 244/var(--tw-bg-opacity,1))}.hover\:bg-green-700:hover{--tw-bg-opacity:1;background-color:rgb(21 128 61/var(--tw-bg-opacity,1))}.hover\:bg-pink-700:hover{--tw-bg-opacity:1;background-color:rgb(190 24 93/var(--tw-bg-opacity,1))}.hover\:text-green-600:hover{--tw-text-opacity:1;color:rgb(22 163 74/var(--tw-text-opacity,1))}.hover\:text-white:hover{--tw-text-opacity:1;color:rgb(255 255 255/var(--tw-text-opacity,1))}.hover\:shadow-lg:hover{--tw-shadow:0 10px 15px -3px rgba(0,0,0,.1),0 4px 6px -4px rgba(0,0,0,.1);--tw-shadow-colored:0 10px 15px -3px var(--tw-shadow-color),0 4px 6px -4px var(--tw-shadow-color)}.hover\:shadow-lg:hover,.hover\:shadow-xl:hover{box-shadow:var(--tw-ring-offset-shadow,0 0 #0000),var(--tw-ring-shadow,0 0 #0000),var(--tw-shadow)}.hover\:shadow-xl:hover{--tw-shadow:0 20px 25px -5px rgba(0,0,0,.1),0 8px 10px -6px rgba(0,0,0,.1);--tw-shadow-colored:0 20px 25px -5px var(--tw-shadow-color),0 8px 10px -6px var(--tw-shadow-color)}@media (min-width:640px){.sm\:inline{display:inline}.sm\:w-\[70\%\]{width:70%}.sm\:flex-row{flex-direction:row}.sm\:gap-3{gap:.75rem}.sm\:px-6{padding-left:1.5rem;padding-right:1.5rem}.sm\:text-sm{font-size:.875rem;line-height:1.25rem}.sm\:text-xl{font-size:1.25rem;line-height:1.75rem}}@media (min-width:768px){.md\:grid{display:grid}.md\:w-auto{width:auto}.md\:grid-cols-2{grid-template-columns:repeat(2,minmax(0,1fr))}.md\:grid-cols-3{grid-template-columns:repeat(3,minmax(0,1fr))}.md\:grid-cols-4{grid-template-columns:repeat(4,minmax(0,1fr))}.md\:flex-row{flex-direction:row}.md\:overflow-visible{overflow:visible}}@media (min-width:1024px){.lg\:flex{display:flex}.lg\:hidden{display:none}.lg\:grid-cols-2{grid-template-columns:repeat(2,minmax(0,1fr))}.lg\:grid-cols-3{grid-template-columns:repeat(3,minmax(0,1fr))}.lg\:grid-cols-4{grid-template-columns:repeat(4,minmax(0,1fr))}.lg\:px-8{padding-left:2rem;padding-right:2rem}.lg\:py-24{padding-top:6rem;padding-bottom:6rem}.lg\:py-28{padding-top:7rem;padding-bottom:7rem}.lg\:text-4xl{font-size:2.25rem;line-height:2.5rem}.lg\:text-5xl{font-size:3rem;line-height:1}.lg\:text-6xl{font-size:3.75rem;line-height:1}}

diff --git a/contact/index.html b/contact/index.html
@@ -127,11 +127,11 @@
 
         <div class="space-y-3">
 
-          <a href="tel:+917071906906" class="flex items-center justify-between p-4 bg-green-50 rounded-lg"><span><span class="block font-medium">Men's Section</span><span class="text-sm text-gray-600">Tue–Sun, 8:30 AM – 9:00 PM</span></span><span class="text-green-700 font-semibold">+91 70719 06906</span></a>
+          <a href="tel:+917071906906" class="flex flex-wrap items-center justify-between gap-2 p-4 bg-green-50 rounded-lg"><span><span class="block font-medium">Men's Section</span><span class="text-sm text-gray-600">Tue–Sun, 8:30 AM – 9:00 PM</span></span><span class="text-green-700 font-semibold">+91 70719 06906</span></a>
 
-          <a href="tel:+917506767367" class="flex items-center justify-between p-4 bg-green-50 rounded-lg"><span><span class="block font-medium">Women's Section</span><span class="text-sm text-gray-600">Tue–Sun, 10:00 AM – 8:30 PM</span></span><span class="text-green-700 font-semibold">+91 75067 67367</span></a>
+          <a href="tel:+917506767367" class="flex flex-wrap items-center justify-between gap-2 p-4 bg-green-50 rounded-lg"><span><span class="block font-medium">Women's Section</span><span class="text-sm text-gray-600">Tue–Sun, 10:00 AM – 8:30 PM</span></span><span class="text-green-700 font-semibold">+91 75067 67367</span></a>
 
-          <a href="tel:+919821346856" class="flex items-center justify-between p-4 bg-green-50 rounded-lg"><span><span class="block font-medium">Proprietor</span><span class="text-sm text-gray-600">Mr. Jayendra G Bhandary</span></span><span class="text-green-700 font-semibold">+91 98213 46856</span></a>
+          <a href="tel:+919821346856" class="flex flex-wrap items-center justify-between gap-2 p-4 bg-green-50 rounded-lg"><span><span class="block font-medium">Proprietor</span><span class="text-sm text-gray-600">Mr. Jayendra G Bhandary</span></span><span class="text-green-700 font-semibold">+91 98213 46856</span></a>
 
         </div>
 
@@ -165,11 +165,11 @@
 
       <div class="space-y-4">
 
-        <a href="tel:+917071906906" class="flex items-center justify-between p-4 bg-white rounded-xl shadow"><span class="font-semibold">Men's Section</span><span class="text-blue-600 font-bold">+91 7071906906</span></a>
+        <a href="tel:+917071906906" class="flex flex-wrap items-center justify-between gap-2 p-4 bg-white rounded-xl shadow"><span class="font-semibold">Men's Section</span><span class="text-blue-600 font-bold">+91 7071906906</span></a>
 
-        <a href="tel:+917506767367" class="flex items-center justify-between p-4 bg-white rounded-xl shadow"><span class="font-semibold">Women's Section</span><span class="text-pink-600 font-bold">+91 7506767367</span></a>
+        <a href="tel:+917506767367" class="flex flex-wrap items-center justify-between gap-2 p-4 bg-white rounded-xl shadow"><span class="font-semibold">Women's Section</span><span class="text-pink-600 font-bold">+91 7506767367</span></a>
 
-        <a href="tel:+919821346856" class="flex items-center justify-between p-4 bg-white rounded-xl shadow"><span class="font-semibold">Proprietor</span><span class="text-green-600 font-bold">+91 9821346856</span></a>
+        <a href="tel:+919821346856" class="flex flex-wrap items-center justify-between gap-2 p-4 bg-white rounded-xl shadow"><span class="font-semibold">Proprietor</span><span class="text-green-600 font-bold">+91 9821346856</span></a>
 
       </div>
 

diff --git a/index.html b/index.html
@@ -123,13 +123,13 @@
 
       </div>
 
-      <div class="grid grid-cols-3 gap-6 pt-4 text-center">
+      <div class="stat-grid grid grid-cols-3 pt-4 text-center">
 
-        <div><p class="text-3xl font-bold text-green-600">25+</p><p class="text-sm text-gray-600">Years Experience</p></div>
+        <div><p class="stat-num font-bold text-green-600">25+</p><p class="stat-label text-gray-600">Years Experience</p></div>
 
-        <div><p class="text-3xl font-bold text-green-600">5000+</p><p class="text-sm text-gray-600">Happy Clients</p></div>
+        <div><p class="stat-num font-bold text-green-600">5000+</p><p class="stat-label text-gray-600">Happy Clients</p></div>
 
-        <div><p class="text-3xl font-bold text-green-600">35+</p><p class="text-sm text-gray-600">Years Founder Exp.</p></div>
+        <div><p class="stat-num font-bold text-green-600">35+</p><p class="stat-label text-gray-600">Years Founder Exp.</p></div>
 
       </div>
 
@@ -145,9 +145,9 @@
 
       <div class="space-y-3">
 
-        <a href="tel:+917071906906" class="flex items-center justify-between rounded-xl bg-blue-50 px-4 py-3"><span class="font-semibold">Men's Section</span><span class="text-blue-700 font-bold">8:30 AM – 9:00 PM</span></a>
+        <a href="tel:+917071906906" class="flex flex-wrap items-center justify-between gap-2 rounded-xl bg-blue-50 px-4 py-3"><span class="font-semibold">Men's Section</span><span class="text-blue-700 font-bold">8:30 AM – 9:00 PM</span></a>
 
-        <a href="tel:+917506767367" class="flex items-center justify-between rounded-xl bg-pink-50 px-4 py-3"><span class="font-semibold">Women's Section</span><span class="text-pink-700 font-bold">10:00 AM – 8:30 PM</span></a>
+        <a href="tel:+917506767367" class="flex flex-wrap items-center justify-between gap-2 rounded-xl bg-pink-50 px-4 py-3"><span class="font-semibold">Women's Section</span><span class="text-pink-700 font-bold">10:00 AM – 8:30 PM</span></a>
 
       </div>
 

diff --git a/css/tailwind.css b/css/tailwind.css
@@ -45,3 +45,53 @@ body {
   aspect-ratio: 4 / 3;
   object-fit: cover;
 }
+
+.stat-grid {
+  gap: 0.5rem;
+}
+
+.stat-num {
+  font-size: 1.5rem;
+  line-height: 2rem;
+}
+
+.stat-label {
+  font-size: 0.75rem;
+  line-height: 1rem;
+}
+
+@media (min-width: 640px) {
+  .stat-grid {
+    gap: 1.5rem;
+  }
+
+  .stat-num {
+    font-size: 1.875rem;
+    line-height: 2.25rem;
+  }
+
+  .stat-label {
+    font-size: 0.875rem;
+    line-height: 1.25rem;
+  }
+}
+
+@media (max-width: 380px) {
+  [data-book-toggle] {
+    white-space: nowrap;
+    padding-left: 0.75rem;
+    padding-right: 0.75rem;
+  }
+
+  [data-book-toggle] .ml-2 {
+    position: absolute;
+    width: 1px;
+    height: 1px;
+    padding: 0;
+    margin: -1px;
+    overflow: hidden;
+    clip: rect(0, 0, 0, 0);
+    white-space: nowrap;
+    border: 0;
+  }
+}

diff --git a/js/site.js b/js/site.js
@@ -20,6 +20,7 @@
     navToggle.addEventListener("click", () => {
       const open = mobileNav.classList.toggle("hidden") === false;
       navToggle.setAttribute("aria-expanded", open ? "true" : "false");
+      navToggle.setAttribute("aria-label", open ? "Close menu" : "Open menu");
       navToggle.querySelector("[data-icon-open]").classList.toggle("hidden", open);
       navToggle.querySelector("[data-icon-close]").classList.toggle("hidden", !open);
     });
